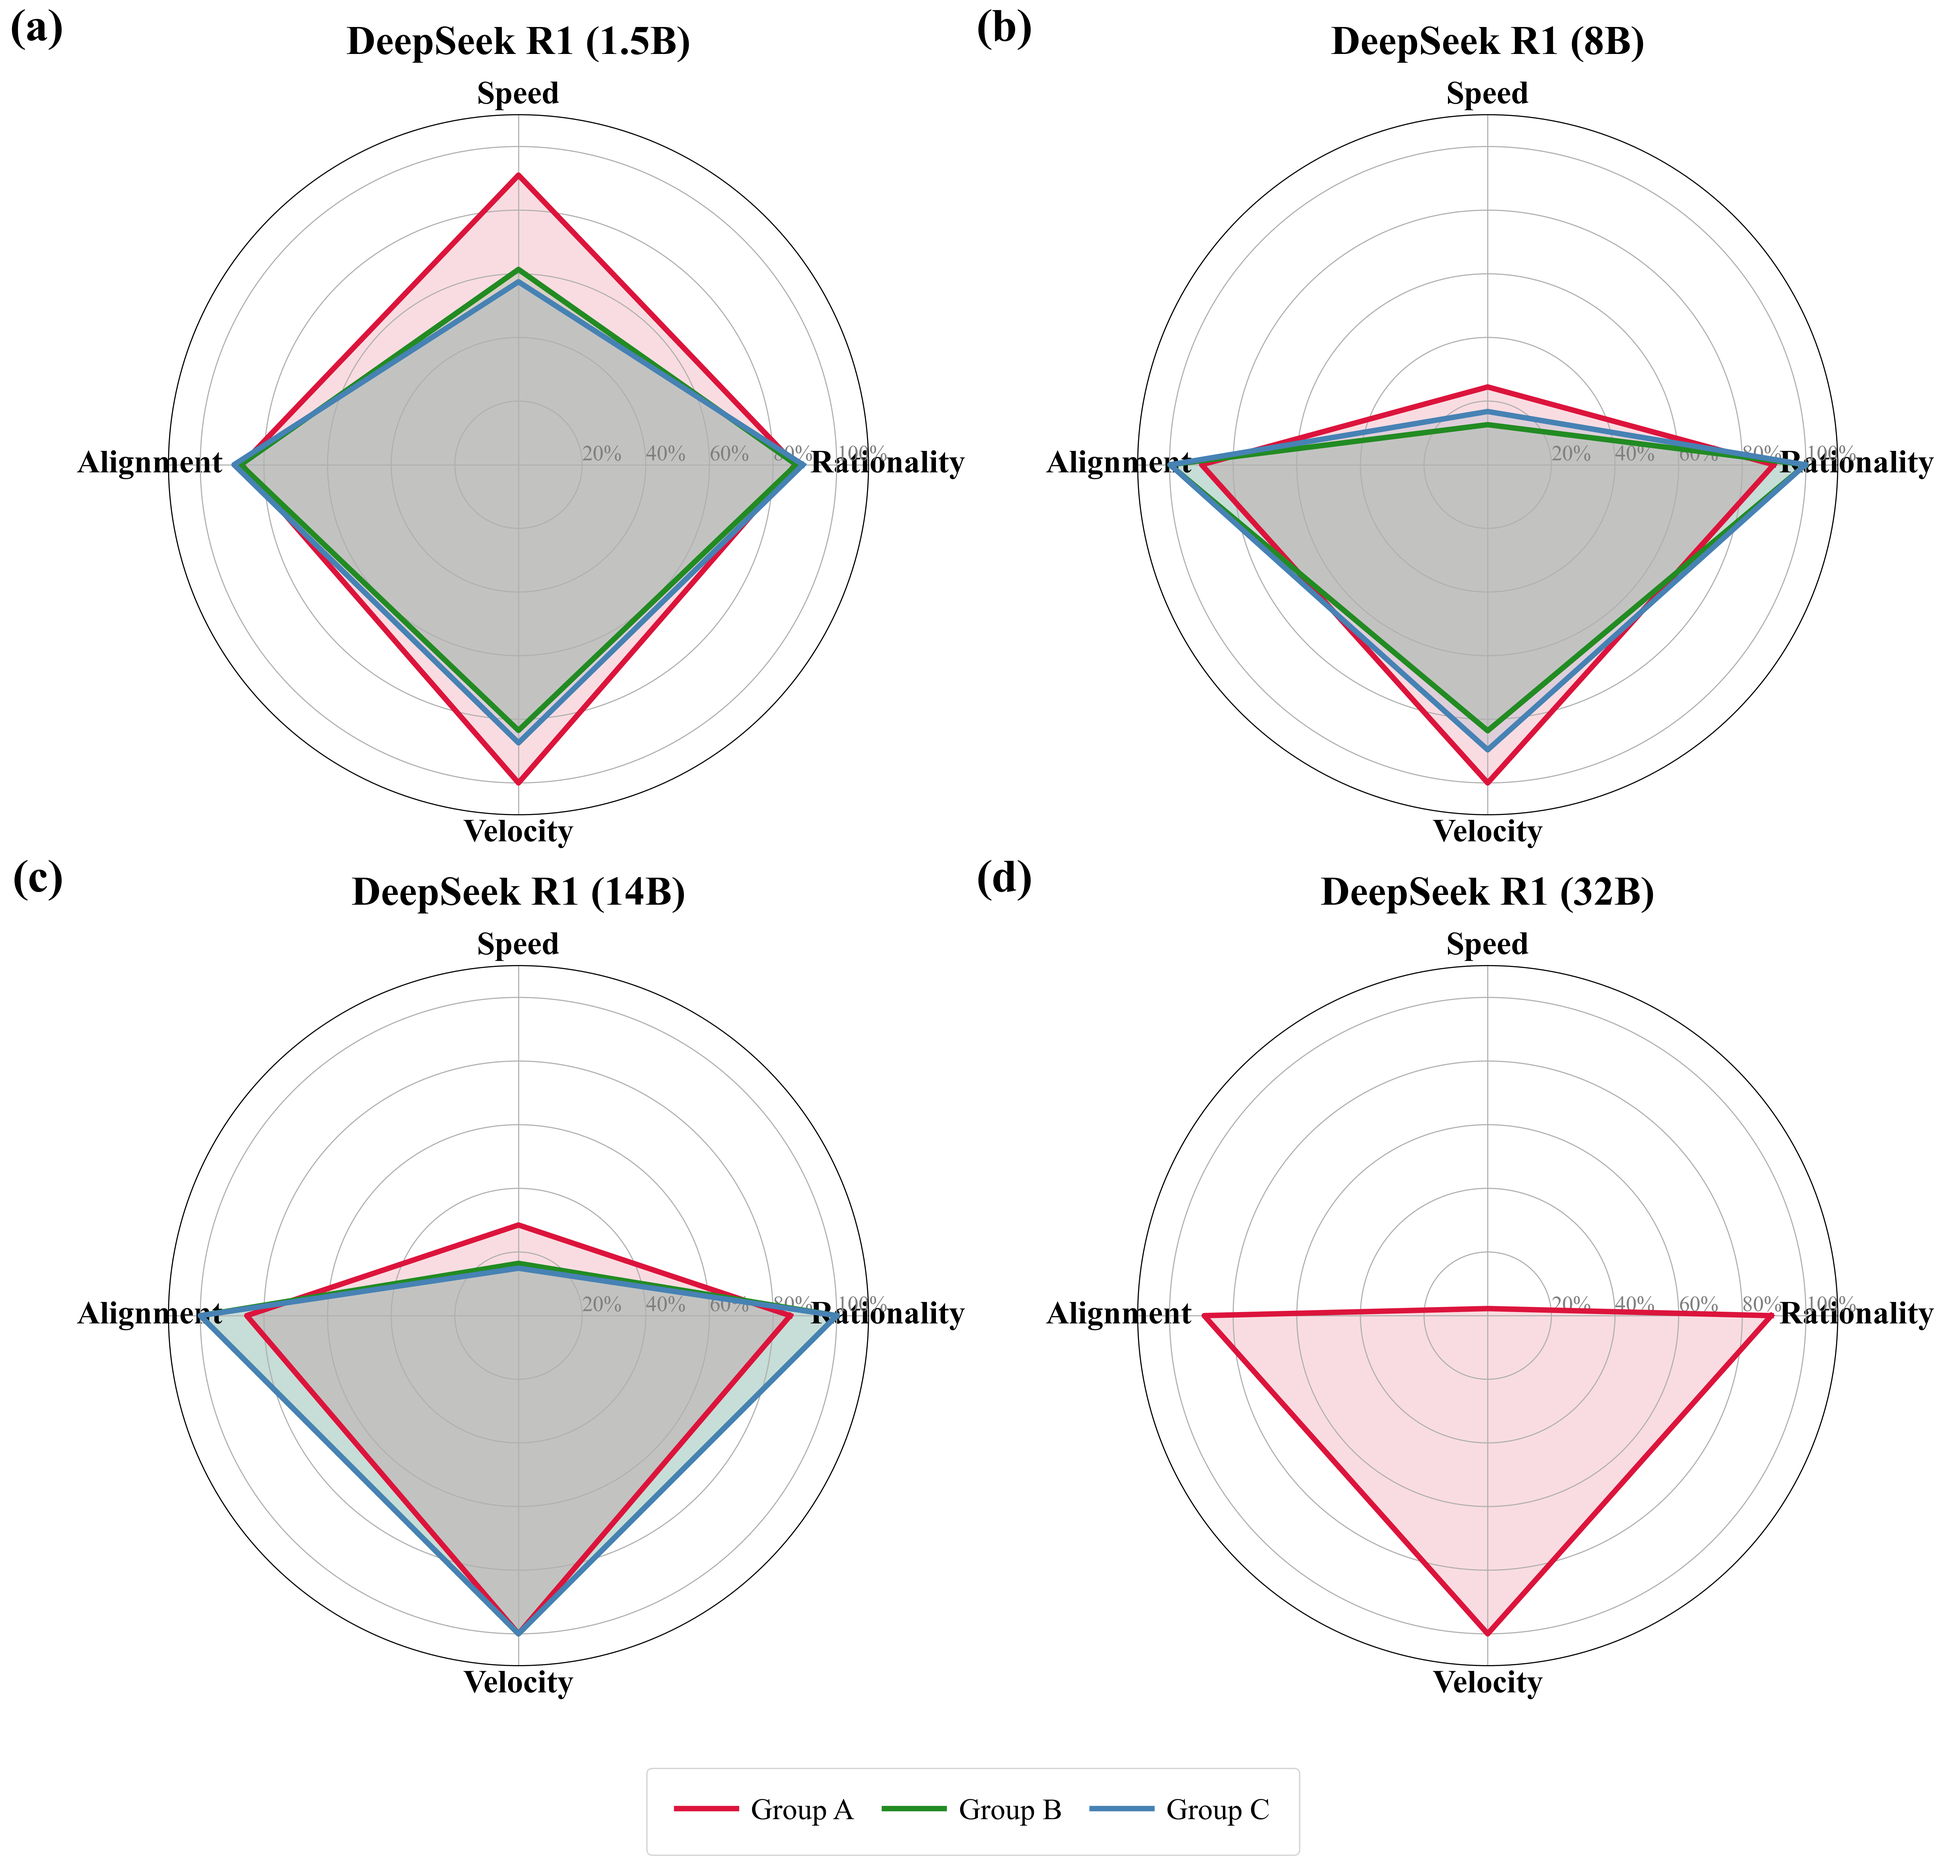
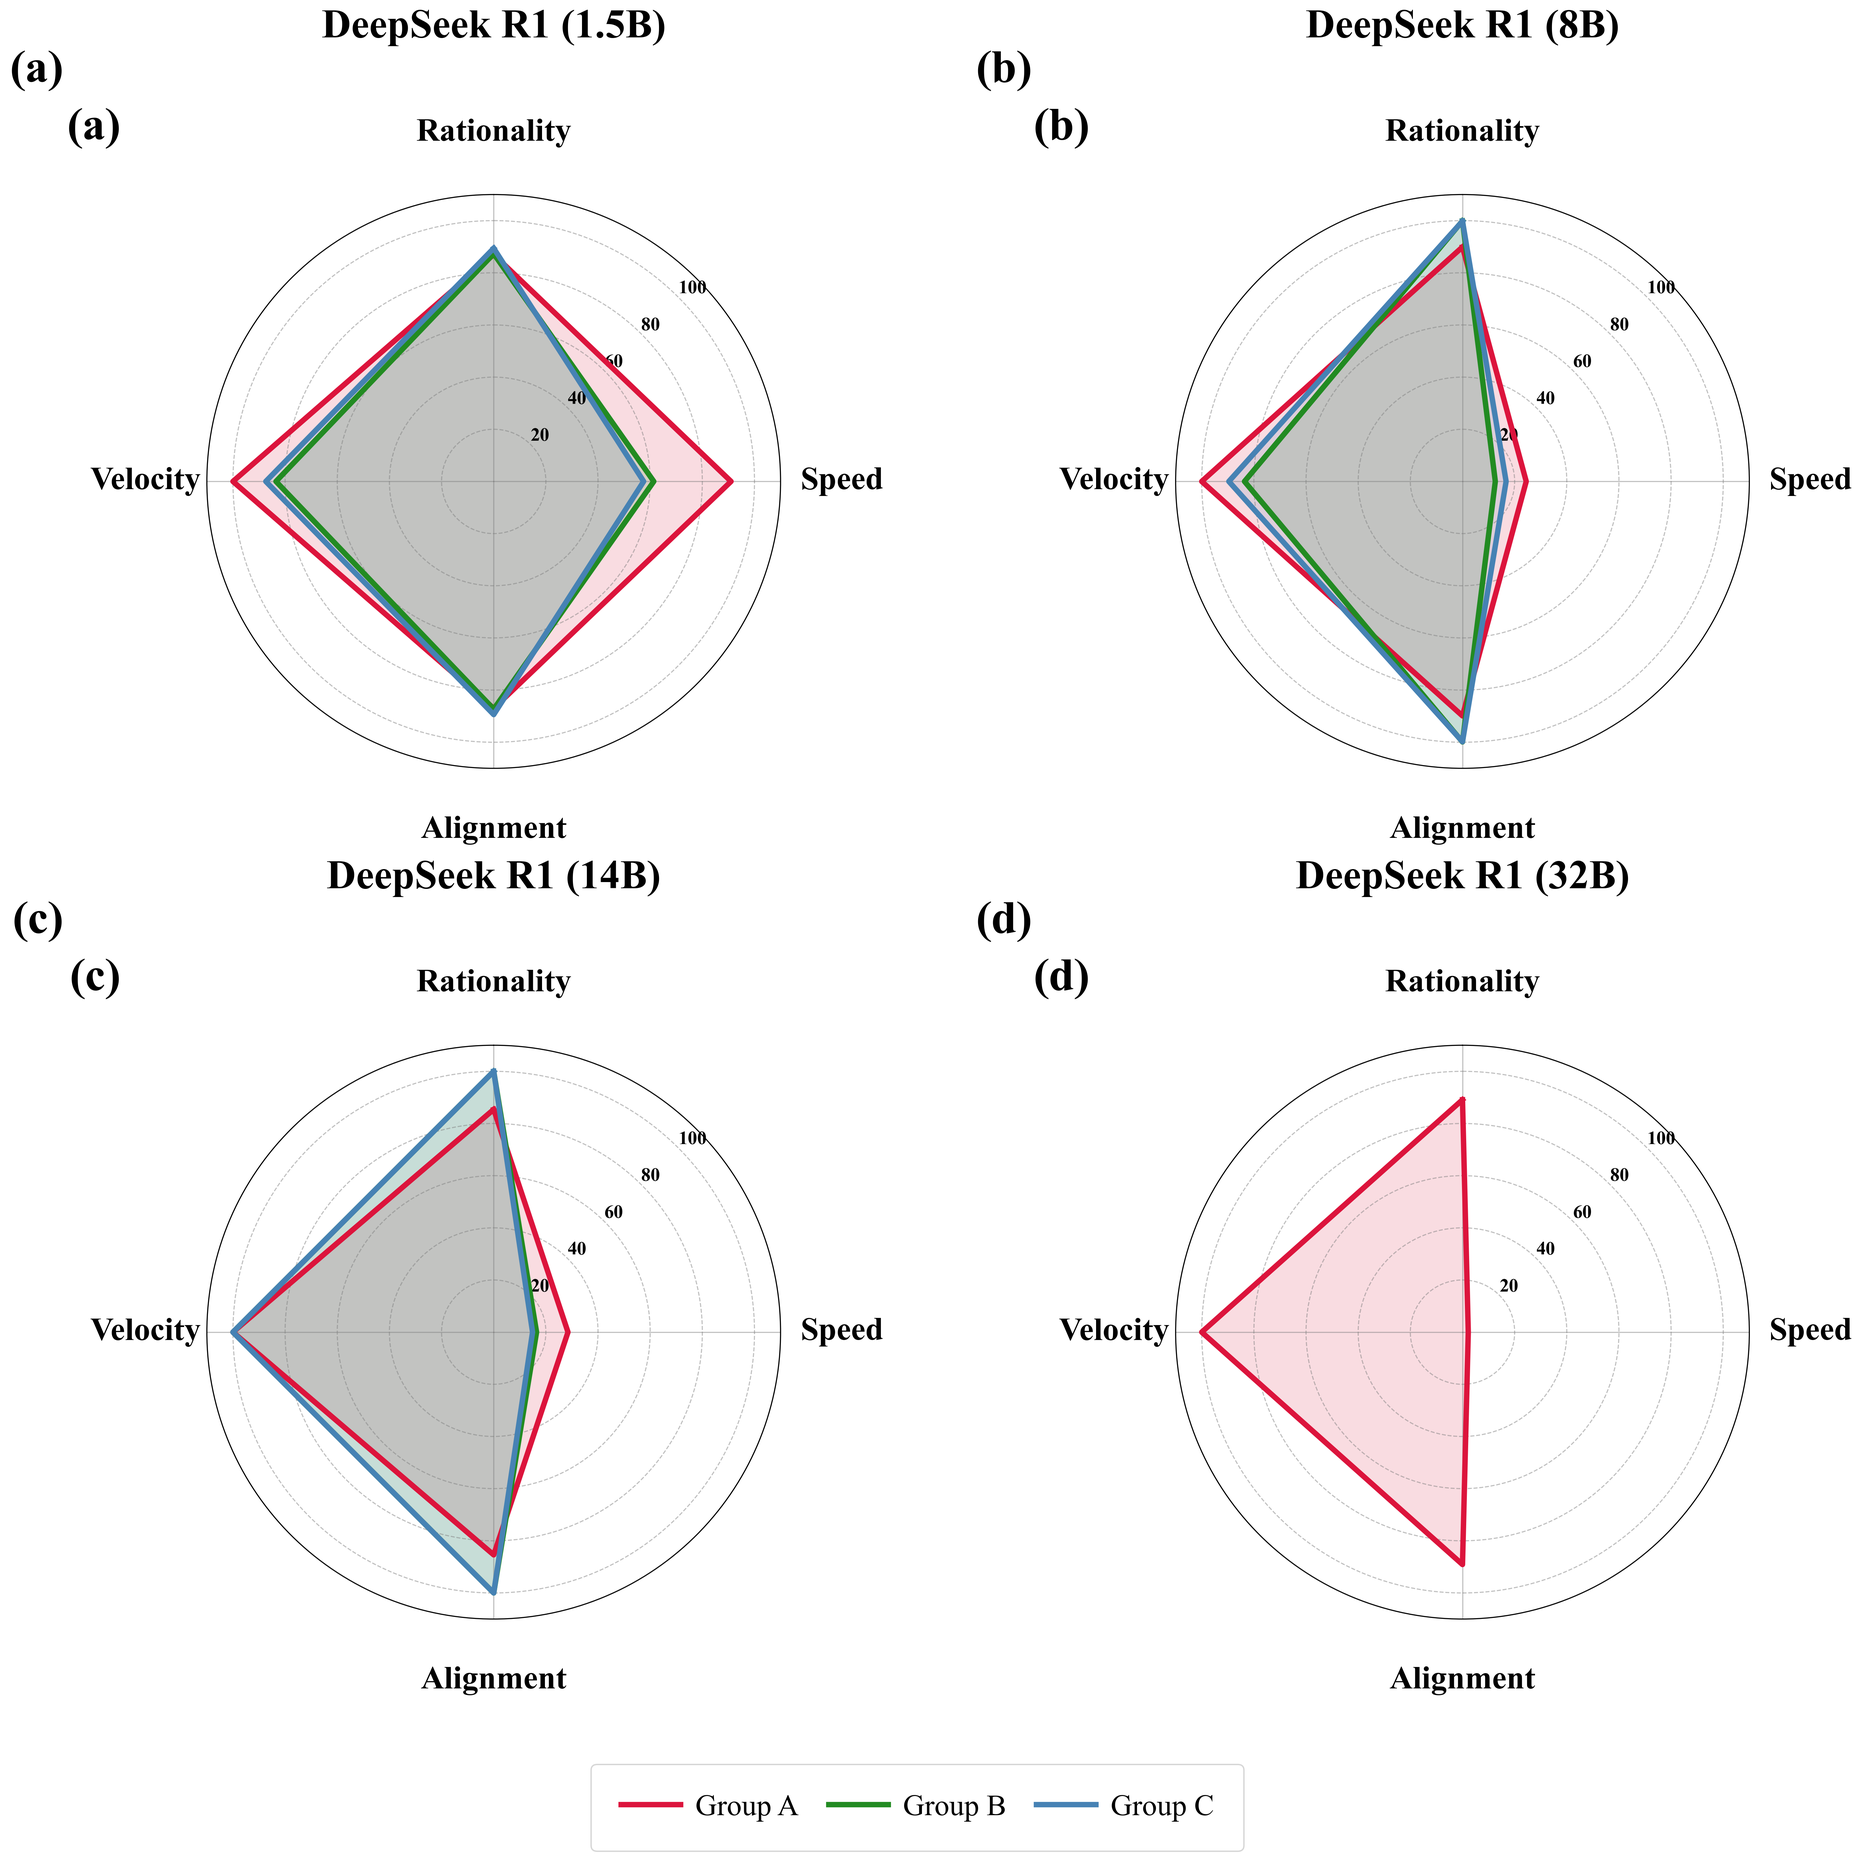
Refine SQ3 Radar: Rotate Quality to North, fix label overlaps, 45-degree scale

diff --git a/examples/single_agent/analysis/SQ3_Final_Results/plot_sq3_radar_scientific_v3.py b/examples/single_agent/analysis/SQ3_Final_Results/plot_sq3_radar_scientific_v3.py
@@ -82,14 +82,41 @@ for i, (model_id, model_name) in enumerate(models):
             labels_all.append(group_display[group])
     
     # Customize sub-plot
+    # Rotate so Quality is Top (North)
+    ax.set_theta_offset(pi / 2)
+    ax.set_theta_direction(-1) # Clockwise
+    
     ax.set_xticks(angles[:-1])
-    # Massive font sizes for readability
+    # Massive font sizes for readability, added padding
     ax.set_xticklabels(labels, size=24, fontweight='bold', family='serif')
-    ax.set_rlabel_position(0)
+    ax.tick_params(axis='x', pad=35) # Push labels out
+    
+    # Scale suggested to be vertical (r-label)
+    ax.set_rlabel_position(0) # North (since we rotated offset to pi/2, 0 relative to data is Top? No.)
+    # Matplotlib polar coordinates:
+    # After offset pi/2:
+    # 0 angle is now at Top.
+    # We want labels to be potentially vertical? 
+    # Let's put the scale at 45 degrees (North East) so it doesn't overlap Quality axis
+    ax.set_rlabel_position(45)
+    
     ax.set_yticks([20, 40, 60, 80, 100])
-    ax.set_yticklabels(["20%", "40%", "60%", "80%", "100%"], color="grey", size=16, family='serif')
+    # Make tick labels vertical-ish or just clearly background
+    ax.set_yticklabels(["20", "40", "60", "80", "100"], color="black", size=14, family='serif', fontweight='bold')
+    
+    # Grid lines style
+    ax.yaxis.grid(True, color='grey', linestyle='--', alpha=0.5)
+    ax.xaxis.grid(True, color='grey', linestyle='-', alpha=0.5)
+    
     ax.set_ylim(0, 110)
-    ax.set_title(f"{model_name}", size=30, fontweight='bold', pad=45, family='serif')
+    # Move title up further to avoid Top Label overlap
+    ax.set_title(f"{model_name}", size=30, fontweight='bold', pad=60, family='serif')
+    
+    # Adjust (a)/(b) label position to avoid Left Label (Stability)
+    # Previous: -0.15, 1.15. Left label is now at 270 deg (West).
+    # Move (a) further Top-Left
+    ax.text(-0.25, 1.25, subplot_ann[i], transform=ax.transAxes, 
+            fontsize=34, fontweight='bold', va='top', ha='right', family='serif')
 
 # 4. Final Touches
 # Unified legend at the bottom - TIGHTENED WIDTH
